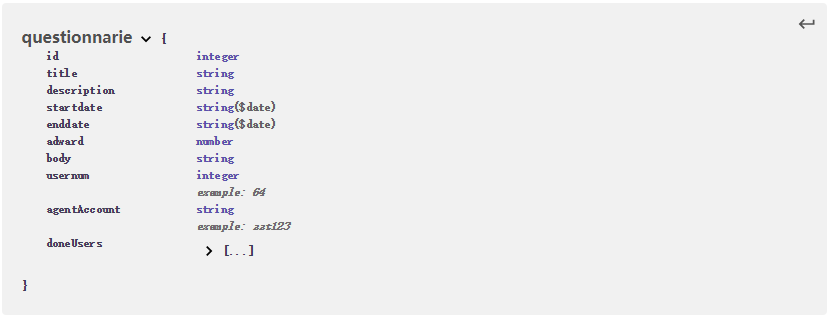
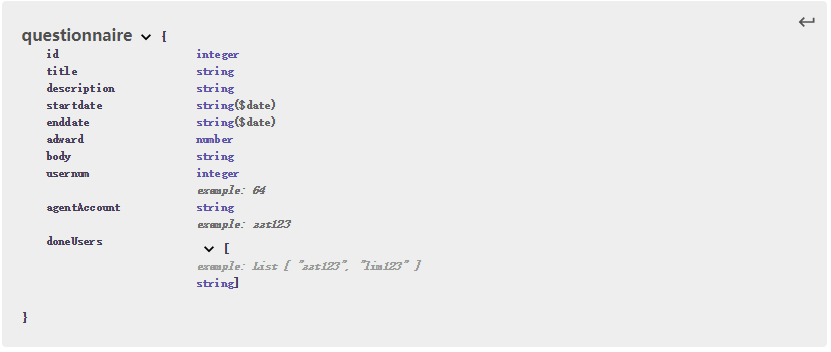
API-questionnaire

diff --git a/design.md b/design.md
@@ -45,6 +45,9 @@
     ![](pics/API/Model6.png)
 - API设计
 
+    ![](pics/API/API15.png)
+    ![](pics/API/API16.png)
+    ![](pics/API/API17.png)
 
 
 **Error**
